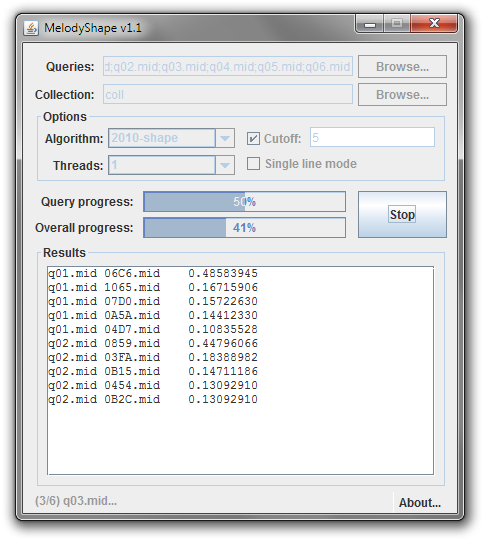
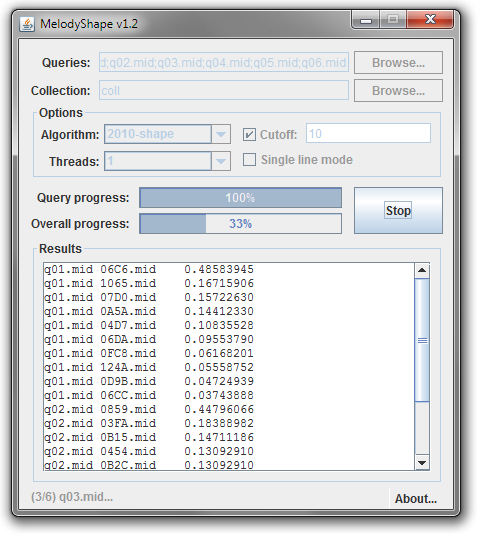
Updated user manual for v1.2.

diff --git a/tex/melodyshape.tex b/tex/melodyshape.tex
@@ -5,32 +5,32 @@
 \lstset{basicstyle=\ttfamily,escapeinside={||},columns=flexible}
 \usepackage[colorlinks=true,allcolors=blue]{hyperref}
 \usepackage{url}
-\usepackage[top=.9in, bottom=.9in, left=1.4in, right=0.9in,a4paper]{geometry}
+\usepackage[top=.8in, bottom=.8in, left=0.9in, right=0.9in,a4paper]{geometry}
 
 \begin{document}
-\title{\textbf{MelodyShape: a Library and Tool for Symbolic Melodic Similarity based on Shape Similarity\\{\Large Version 1.1}}}
+\title{\textbf{MelodyShape: a Library and Tool for Symbolic Melodic Similarity based on Shape Similarity\\{\Large Version 1.2}}}
 \author{Juli\'an Urbano\\Universitat Pompeu Fabra\\\texttt{urbano.julian@gmail.com}}
 \maketitle
 
 \sloppy 
 
 \begin{abstract}
-\noindent\texttt{MelodyShape}\footnote{For the latest version of the software and this document, please visit \url{http://julian-urbano.info}.} is a Java library and tool to compute the melodic similarity between monophonic music pieces. It implements several algorithms that compute similarity based on the geometric shape that melodies describe in the pitch-time plane. All these algorithms have obtained the best results in the MIREX\footnote{\url{http://music-ir.org/mirex/wiki/MIREX_HOME}} Symbolic Melodic Similarity task in 2010, 2011, 2012 and 2013 editions, as well as the best results reported for the 2005 collection. This document describes the tool and its execution options; for background information the reader is referred to \cite{Urbano2011:shape}.
+\noindent\texttt{MelodyShape}\footnote{For the latest version of the software and this document, please visit \url{http://julian-urbano.info}.} is a Java library and tool to compute the melodic similarity between monophonic music pieces. It implements several algorithms that compute similarity based on the geometric shape that melodies describe in the pitch-time plane. All these algorithms have obtained the best results in the MIREX\footnote{\url{http://music-ir.org/mirex/wiki/MIREX_HOME}} Symbolic Melodic Similarity task in 2010, 2011, 2012, 2013 and 2014 editions, as well as the best results reported for the 2005 collection. This document describes the tool and its execution options; for background information the reader is referred to \cite{Urbano2011:shape}.
 \end{abstract}
 
 \section{Dependencies}
 
 \texttt{MelodyShape} is available both as source code and as an executable JAR package. It requires two libraries found in the Apache Commons project, which are \emph{not} included in the JAR package: \texttt{commons-cli} and \texttt{commons-math}.
-JAR packages for both libraries can be downloaded from the Apache Commons project website\footnote{\url{http://commons.apache.org}}. \texttt{MelodyShape} v1.1 was specifically implemented and tested with versions \texttt{commons-cli-1.2} and \texttt{commons-math3-3.2}, also available from the \texttt{MelodyShape} website\footnote{\url{https://github.com/julian-urbano/MelodyShape}}.
+JAR packages for both libraries can be downloaded from the Apache Commons project website\footnote{\url{http://commons.apache.org}}. \texttt{MelodyShape} v1.2 was specifically implemented and tested with versions \texttt{commons-cli-1.2} and \texttt{commons-math3-3.2}, also available from the \texttt{MelodyShape} website\footnote{\url{https://github.com/julian-urbano/MelodyShape}}.
 Both libraries will have to be accessible from the Java classpath.
 
 The easiest way to run the \texttt{MelodyShape} tool is to download all JAR files in the same directory, and then run Java from the command line (a graphical user interface is also available, see \S\ref{ssec:gui}.):
 \begin{lstlisting}
 $ ls
-commons-cli-1.2.jar    commons-math3-3.2.jar    melodyshape-1.1.jar    data
+commons-cli-1.2.jar    commons-math3-3.2.jar    melodyshape-1.2.jar    data
 
-$ java -jar melodyshape-1.1.jar
-usage: melodyshape-1.1 -q <file/dir> -c <dir> -a <name> [-k <cutoff>] [-l]
+$ java -jar melodyshape-1.2.jar
+usage: melodyshape-1.2 -q <file/dir> -c <dir> -a <name> [-k <cutoff>] [-l]
                          [-t <num>] [-v] [-vv] [-gui] [-h]
 -q <file/dir>  path to the query melody or melodies.
 -c <dir>       path to the collection of documents.
@@ -39,6 +39,7 @@ usage: melodyshape-1.1 -q <file/dir> -c <dir> -a <name> [-k <cutoff>] [-l]
                - 2011-shape, 2011-pitch, 2011-time
                - 2012-shapeh, 2012-shapel, 2012-shapeg, 2012-time, 2012-shapetime
                - 2013-shapeh, 2013-time, 2013-shapetime
+               - 2014-shapeh, 2014-time, 2014-shapetime
 -k <cutoff>    number of documents to retrieve.
 -l             show results in a single line (omits similarity scores).
 -t <num>       run a fixed number of threads.
@@ -47,13 +48,13 @@ usage: melodyshape-1.1 -q <file/dir> -c <dir> -a <name> [-k <cutoff>] [-l]
 -gui           run with graphical user interface.
 -h             show this help message.
 
-MelodyShape 1.1  Copyright (C) 2013  Julian Urbano <urbano.julian@gmail.com>
+MelodyShape 1.2  Copyright (C) 2014  Julian Urbano <urbano.julian@gmail.com>
 This program comes with ABSOLUTELY NO WARRANTY.
 This is free software, and you are welcome to redistribute it
 under the terms of the GNU General Public License version 3.
 \end{lstlisting}
 
-Currently, \texttt{MelodyShape} v1.1 is compiled for Java 7. It can be redistributed and/or modified under the terms of the GNU General Public License version 3.
+Currently, \texttt{MelodyShape} v1.2 is compiled for Java 7. It can be redistributed and/or modified under the terms of the GNU General Public License version 3.
 
 \section{Tool Options}
 
@@ -61,7 +62,7 @@ Currently, \texttt{MelodyShape} v1.1 is compiled for Java 7. It can be redistrib
 
 \texttt{MelodyShape} requires one or more query melodies, a collection of melodies to sort according to their melodic similarity to the queries, and the name of the algorithm to compute those similarities. These three parameters must be indicated with arguments \texttt{-q}, \texttt{-c} and \texttt{-a} in the command line. For instance, we can compute the similarity of melody \texttt{data/q01.mid} with all melodies in directory \texttt{data/coll/} using algorithm \texttt{2010-shape}:
 \begin{lstlisting}
-$ java -jar melodyshape-1.1.jar -q data/q01.mid -c data/coll/ -a 2010-shape
+$ java -jar melodyshape-1.2.jar -q data/q01.mid -c data/coll/ -a 2010-shape
 06C6.mid    0.48583945
 1065.mid    0.16715906
 07D0.mid    0.15722630
@@ -76,7 +77,7 @@ The output is a list of all files in \texttt{data/coll/} sorted by melodic simil
 
 \texttt{MelodyShape} can be run several times, once for each of the queries we have. Alternatively, it can be run once for all queries, resulting in a more efficient execution. The following would run \texttt{MelodyShape} will all queries in directory \texttt{data/}\footnote{Throughout this document, underlined text highlights the changes with the previous executions.}:
 \begin{lstlisting}
-$ java -jar melodyshape-1.1.jar |\underline{-q data/}| -c data/coll/ -a 2010-shape
+$ java -jar melodyshape-1.2.jar |\underline{-q data/}| -c data/coll/ -a 2010-shape
 q01.mid    06C6.mid    0.48583945
 q01.mid    1065.mid    0.16715906
 ...
@@ -93,7 +94,7 @@ Results are again sorted by melodic similarity to the queries, one query after a
 
 The \texttt{-k} command line argument can be used to indicate how many results to show per query. For example, to show only the two most similar melodies for each query:
 \begin{lstlisting}
-$ java -jar melodyshape-1.1.jar -q data/ -c data/coll/ -a 2010-shape |\underline{-k 2}|
+$ java -jar melodyshape-1.2.jar -q data/ -c data/coll/ -a 2010-shape |\underline{-k 2}|
 q01.mid    06C6.mid    0.48583945
 q01.mid    1065.mid    0.16715906
 q02.mid    0859.mid    0.44796066
@@ -107,7 +108,7 @@ q06.mid    0B15.mid    0.24436125
 
 The \texttt{-l} command line argument indicates that results should be displayed in a single line, one line per query:
 \begin{lstlisting}
-$ java -jar melodyshape-1.1.jar -q data/ -c data/coll/ -a 2010-shape |\underline{-k 5}| |\underline{-l}|
+$ java -jar melodyshape-1.2.jar -q data/ -c data/coll/ -a 2010-shape |\underline{-k 5}| |\underline{-l}|
 q01.mid    06C6.mid    1065.mid    07D0.mid    0A5A.mid    04D7.mid
 q02.mid    0859.mid    03FA.mid    0B15.mid    0454.mid    0B2C.mid
 ...
@@ -120,7 +121,7 @@ Similarly, the first column identifies the query, and the rest identifies the mo
 
 The \texttt{-v} command line argument can be used to display the execution progress, simply showing when each query starts being run:
 \begin{lstlisting}
-$ java -jar melodyshape-1.1.jar -q data/ -c data/coll/ -a 2010-shape -k 5 -l |\underline{-v}|
+$ java -jar melodyshape-1.2.jar -q data/ -c data/coll/ -a 2010-shape -k 5 -l |\underline{-v}|
 (1/6) q01.mid...done.
 q01.mid    06C6.mid    1065.mid    07D0.mid    0A5A.mid    04D7.mid
 (2/6) q02.mid...done.
@@ -132,7 +133,7 @@ q06.mid    0859.mid    0B15.mid    0F0A.mid    0B2C.mid    0454.mid
 
 The \texttt{-vv} command line argument can be used to display real-time execution progress, some information about the algorithm used and time spent running each query:
 \begin{lstlisting}
-$ java -jar melodyshape-1.1.jar -q data/ -c data/coll/ -a 2010-shape -k 5 -l |\underline{-vv}|
+$ java -jar melodyshape-1.2.jar -q data/ -c data/coll/ -a 2010-shape -k 5 -l |\underline{-vv}|
 Reading queries...done (6 melodies).
 Reading collection...done (2000 melodies).
 Instantiating algorithm...done.
@@ -150,7 +151,7 @@ q02.mid    0859.mid    03FA.mid    0B15.mid    0454.mid    0B2C.mid
 
 All this extra information is output to the standard error stream, so that the actual results per query can be easily set apart with a pipeline:
 \begin{lstlisting}
-$ java -jar melodyshape-1.1.jar -q data/ -c data/coll/ -a 2010-shape -l -vv |\underline{> out}|
+$ java -jar melodyshape-1.2.jar -q data/ -c data/coll/ -a 2010-shape -l -vv |\underline{> out}|
 Reading queries...done (6 melodies).
 Reading collection...done (2000 melodies).
 Instantiating algorithm...done.
@@ -174,12 +175,12 @@ q06.mid    0859.mid    0B15.mid    0F0A.mid    0B2C.mid    0454.mid ...
 
 The \texttt{-t} command line argument can be used to indicate the number of threads to use by the algorithms. By default, as many threads as CPU cores found in the machine will be used. We can, for instance, restrict CPU usage to just two threads:
 \begin{lstlisting}
-$ java -jar melodyshape-1.1.jar -q data/ -c data/coll/ -a 2010-shape |\underline{-t 2}|
+$ java -jar melodyshape-1.2.jar -q data/ -c data/coll/ -a 2010-shape |\underline{-t 2}|
 \end{lstlisting}
 
 \subsection{Graphical User Interface: \texttt{-gui}}\label{ssec:gui}
 
-The \texttt{-gui} command line argument can be used to run \texttt{MelodyShape} with a graphical user interface rather than as a command line tool, which will show up a window as in Figure~\ref{fig:gui}. Alternatively, the graphical user interface can be run directly by running the \texttt{melodyshape-1.1.jar} JAR file from a windows or file explorer, usually by double-clicking on it.
+The \texttt{-gui} command line argument can be used to run \texttt{MelodyShape} with a graphical user interface rather than as a command line tool, which will show up a window as in Figure~\ref{fig:gui}. Alternatively, the graphical user interface can be run directly by running the \texttt{melodyshape-1.2.jar} JAR file from a windows or file explorer, usually by double-clicking on it.
 \begin{figure}[!h]
 \centering\includegraphics[scale=.6]{gui.png}
 \caption{\texttt{MelodyShape} graphical user interface.}
@@ -190,32 +191,35 @@ The options available from the graphical user interface are basically those avai
 
 \section{Algorithms}
 
-\texttt{MelodyShape} implements several melodic similarity algorithms based on a geometric model that represents melodies as spline curves in the pitch-time plane. The similarity between two melodies is then computed with a sequence alignment algorithm between sequences of spline spans: the more similar the shape of the curves, the more similar the melodies they represent. \texttt{MelodyShape} v1.1 implements algorithms based on this model that have been submitted to the MIREX Symbolic Melodic Similarity task in 2010, 2011, 2012 and 2013. 
+\texttt{MelodyShape} implements several melodic similarity algorithms based on a geometric model that represents melodies as spline curves in the pitch-time plane. The similarity between two melodies is then computed with a sequence alignment algorithm between sequences of spline spans: the more similar the shape of the curves, the more similar the melodies they represent. \texttt{MelodyShape} v1.2 implements algorithms based on this model that have been submitted to the MIREX Symbolic Melodic Similarity task in 2010, 2011, 2012, 2013 and 2014. 
 
-The following table shows the \texttt{-a} command line argument to be used for each algorithm, with the corresponding official MIREX submission name\footnote{Algorithm \textsf{JU3-ParamDeriv} from MIREX 2010 is not implemented in \texttt{MelodyShape} v1.1.}. For instance, argument \texttt{-a 2011-shape} corresponds to algorithm \textsf{UL1-Shape} from MIREX 2011, which is the same as algorithms \textsf{JU4-Shape}, \textsf{ULMS1-ShapeH} and \textsf{JU1-ShapeH} from MIREX 2010, 2012 and 2013, respectively.
+The following table shows the \texttt{-a} command line argument to be used for each algorithm, with the corresponding official MIREX submission name\footnote{Algorithm \textsf{JU3-ParamDeriv} from MIREX 2010 is not implemented in \texttt{MelodyShape} v1.2.}. For instance, argument \texttt{-a 2011-shape} corresponds to algorithm \textsf{UL1-Shape} from MIREX 2011, which is the same as algorithms \textsf{JU4-Shape}, \textsf{ULMS1-ShapeH}, \textsf{JU1-ShapeH} and \textsf{JU1-ShapeH} from MIREX 2010, 2012, 2013 and 2014, respectively.
 
-\begin{table}[!h]
-\centering\begin{tabular}{l|llll}
+\begin{table}[!h]\setlength{\tabcolsep}{4pt}
+\small\centering\begin{tabular}{l|lllll}
 	\hline
-	\texttt{-a} argument     & MIREX 2010              & MIREX 2011         & MIREX 2012               & MIREX 2013             \\ \hline
-	\texttt{2010-domain}     & \textsf{JU1-Domain}     &                    &                          &  \\
-	\texttt{2010-pitchderiv} & \textsf{JU2-PitchDeriv} &                    &                          &  \\
-	\texttt{2010-shape}      & \textsf{JU4-Shape}      & \textsf{UL1-Shape} & \textsf{ULMS1-ShapeH}    & \textsf{JU1-ShapeH}    \\ \hline
-	\texttt{2011-shape}      & \textsf{JU4-Shape}      & \textsf{UL1-Shape} & \textsf{ULMS1-ShapeH}    & \textsf{JU1-ShapeH}    \\
-	\texttt{2011-pitch}      &                         & \textsf{UL2-Pitch} &                          &  \\
-	\texttt{2011-time}       &                         & \textsf{UL3-Time}  & \textsf{ULMS5-Time}      & \textsf{JU3-Time}      \\ \hline
-	\texttt{2012-shapeh}     & \textsf{JU4-Shape}      & \textsf{UL1-Shape} & \textsf{ULMS1-ShapeH}    & \textsf{JU1-ShapeH}    \\
-	\texttt{2012-shapel}     &                         &                    & \textsf{ULMS2-ShapeL}    &  \\
-	\texttt{2012-shapeg}     &                         &                    & \textsf{ULMS3-ShapeG}    &  \\
-	\texttt{2012-time}       &                         & \textsf{UL3-Time}  & \textsf{ULMS5-Time}      & \textsf{JU3-Time}      \\
-	\texttt{2012-shapetime}  &                         &                    & \textsf{ULMS4-ShapeTime} & \textsf{JU2-ShapeTime} \\ \hline
-	\texttt{2013-shapeh}     & \textsf{JU4-Shape}      & \textsf{UL1-Shape} & \textsf{ULMS1-ShapeH}    & \textsf{JU1-ShapeH}    \\
-	\texttt{2013-time}       &                         & \textsf{UL3-Time}  & \textsf{ULMS5-Time}      & \textsf{JU3-Time}      \\
-	\texttt{2013-shapetime}  &                         &                    & \textsf{ULMS4-ShapeTime} & \textsf{JU2-ShapeTime} \\ \hline
+	\texttt{-a} argument     & MIREX 2010              & MIREX 2011         & MIREX 2012               & MIREX 2013             & MIREX 2014             \\ \hline
+	\texttt{2010-domain}     & \textsf{JU1-Domain}     &                    &                          &                        &  \\
+	\texttt{2010-pitchderiv} & \textsf{JU2-PitchDeriv} &                    &                          &                        &  \\
+	\texttt{2010-shape}      & \textsf{JU4-Shape}      & \textsf{UL1-Shape} & \textsf{ULMS1-ShapeH}    & \textsf{JU1-ShapeH}    & \textsf{JU1-ShapeH}    \\ \hline
+	\texttt{2011-shape}      & \textsf{JU4-Shape}      & \textsf{UL1-Shape} & \textsf{ULMS1-ShapeH}    & \textsf{JU1-ShapeH}    & \textsf{JU1-ShapeH}    \\
+	\texttt{2011-pitch}      &                         & \textsf{UL2-Pitch} &                          &                        &  \\
+	\texttt{2011-time}       &                         & \textsf{UL3-Time}  & \textsf{ULMS5-Time}      & \textsf{JU3-Time}      & \textsf{JU3-Time}      \\ \hline
+	\texttt{2012-shapeh}     & \textsf{JU4-Shape}      & \textsf{UL1-Shape} & \textsf{ULMS1-ShapeH}    & \textsf{JU1-ShapeH}    & \textsf{JU1-ShapeH}    \\
+	\texttt{2012-shapel}     &                         &                    & \textsf{ULMS2-ShapeL}    &                        &  \\
+	\texttt{2012-shapeg}     &                         &                    & \textsf{ULMS3-ShapeG}    &                        &  \\
+	\texttt{2012-time}       &                         & \textsf{UL3-Time}  & \textsf{ULMS5-Time}      & \textsf{JU3-Time}      & \textsf{JU3-Time}      \\
+	\texttt{2012-shapetime}  &                         &                    & \textsf{ULMS4-ShapeTime} & \textsf{JU2-ShapeTime} & \textsf{JU2-ShapeTime} \\ \hline
+	\texttt{2013-shapeh}     & \textsf{JU4-Shape}      & \textsf{UL1-Shape} & \textsf{ULMS1-ShapeH}    & \textsf{JU1-ShapeH}    & \textsf{JU1-ShapeH}    \\
+	\texttt{2013-time}       &                         & \textsf{UL3-Time}  & \textsf{ULMS5-Time}      & \textsf{JU3-Time}      & \textsf{JU3-Time}      \\
+	\texttt{2013-shapetime}  &                         &                    & \textsf{ULMS4-ShapeTime} & \textsf{JU2-ShapeTime} & \textsf{JU2-ShapeTime} \\ \hline
+	\texttt{2014-shapeh}     & \textsf{JU4-Shape}      & \textsf{UL1-Shape} & \textsf{ULMS1-ShapeH}    & \textsf{JU1-ShapeH}    & \textsf{JU1-ShapeH}    \\
+	\texttt{2014-time}       &                         & \textsf{UL3-Time}  & \textsf{ULMS5-Time}      & \textsf{JU3-Time}      & \textsf{JU3-Time}      \\
+	\texttt{2014-shapetime}  &                         &                    & \textsf{ULMS4-ShapeTime} & \textsf{JU2-ShapeTime} & \textsf{JU2-ShapeTime} \\ \hline
 \end{tabular}
 \end{table}
 
-The reader is referred to the corresponding MIREX participation report for a detailed description of each of these algorithms \cite{Urbano2010:mirex2010,Urbano2011:mirex2011,Urbano2012:mirex2012,Urbano2013:mirex2013}. For a general description of the geometric model, the reader is referred to \cite{Urbano2011:shape}.
+The reader is referred to the corresponding MIREX participation report for a detailed description of each of these algorithms \cite{Urbano2010:mirex2010,Urbano2011:mirex2011,Urbano2012:mirex2012,Urbano2013:mirex2013,Urbano2014:mirex2014}. For a general description of the geometric model, please refer to \cite{Urbano2011:shape}.
 
 \section*{Acknowledgments}
 This work is supported by an A4U postdoctoral grant.
